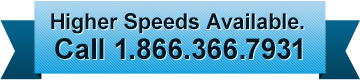
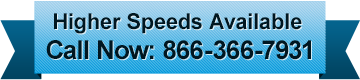
Adding assets

Changed region(s): [[0.1222, 0.475, 0.8861, 0.775], [0.1222, 0.15, 0.8556, 0.45]]

diff --git a/dev-sites/centurylink-internet/index.php b/dev-sites/centurylink-internet/index.php
@@ -26,7 +26,7 @@
                 <div class="container-940">
                     <span class="before-clock fL">Time left to order today</span>
                     <div class="clock fL" id="countbox"></div>
-                    <span class="after-clock fR">Call Now: 1.866.366.7931</span>
+                    <span class="after-clock fR">Call Now: 866-366-7931</span>
                     <div style="clear:both;"></div>
                 </div>
             </div>
@@ -35,7 +35,7 @@
                 <div class="container-940">
                     <p class="hidden">
                         CenturyLink&reg; High-Speed Internet. Consistently fast. Guaranteed price.
-                        No Contract 5-year price guarantee CenturyLink High-Speed Internet $14.95 a month when you bundle* Speeds up to 768 Kbps.
+                        3 years. 1 price. 0 contract. $19.95 a month when you bundle* Speeds up to 10Mbps
                     </p>
                     <div class="pp">
                         <img src="<?php echo $path; ?>img/header-pp.png" alt="CenturyLink High-Speed Internet">
@@ -48,34 +48,24 @@
 
     <div class="mid-tfn">
         <div class="container-940">
-            <span>Call Now: 1.866.366.7931</span>
+            <span>Order Today! Call 866-366-7931 or <u>Order Online</u></span>
         </div>
     </div>
 
     <div class="home main-info">
         <div class="container-940">
-            <h2>Choose CenturyLink and Save.</h2>
+            <h2>Choose CenturyLink and save on speeds up to 10 Mbps.</h2>
             <div class="price-module-one fL">
+                <h1>CenturyLink High-Speed Internet</h1>
                 <p class="hidden">
-                    High-Speed Internet $14.95 a month when you bundle*
+                    High-Speed Internet $19.95 a month when you bundle*
                 </p>
                 <ul>
-                    <li>1-Year Price-Lock Guarantee</li>
-                    <li>Speeds up to 768 Kbps</li>
-                    <li>Perfect for emailing friends and family<br>and web browsing</li>
+                    <li>Watch movies and shows on Netflix&reg; and Hulu in HD.</li>
+                    <li>Save on mobile data &ndash; connect with in-home Wi-Fi to download the latest apps.</li>
+                    <li>Get answers when you need them with 24/7 tech support.</li>
+                    <li>Award-winning Norton&trade; AntiVirus Online is included at no additional cost.</li>
                 </ul>
-                <!--<a href="<?php echo $path; ?>internet" class="hero-learn-more-btn" clicktrack="ctl|rsd|emktg|microsite|position2|button|internet">Learn more</a>-->
-            </div>
-            <div class="price-module-two fL">
-                <p class="hidden">
-                    Bundle Internet + Phone $54.95 a month*
-                </p>
-                <ul>
-                    <li>1-Year Price-Lock Guarantee</li>
-                    <li>Speeds up to 768 Kbps</li>
-                    <li>Unlimited nationwide and local calling</li>
-                </ul>
-                <!--<a href="<?php echo $path; ?>bundles" class="hero-learn-more-btn" clicktrack="ctl|rsd|emktg|microsite|position2|button|bundles">Learn more</a>-->
             </div>
         </div>
         
@@ -106,7 +96,7 @@
 
     <div class="lower-tfn">
         <div class="container-940">
-            <span>Call Now: 1.866.366.7931</span>
+            <span>Call Now: 866-366-7931</span>
         </div>
     </div>
 
